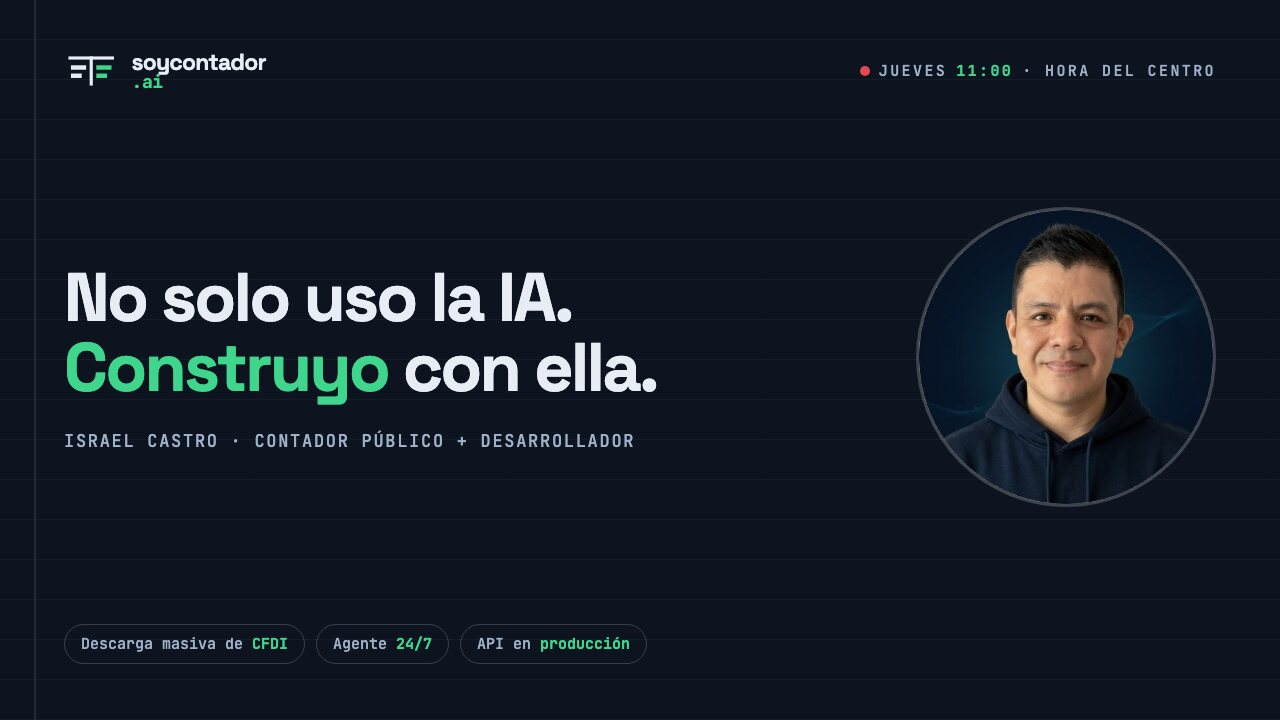
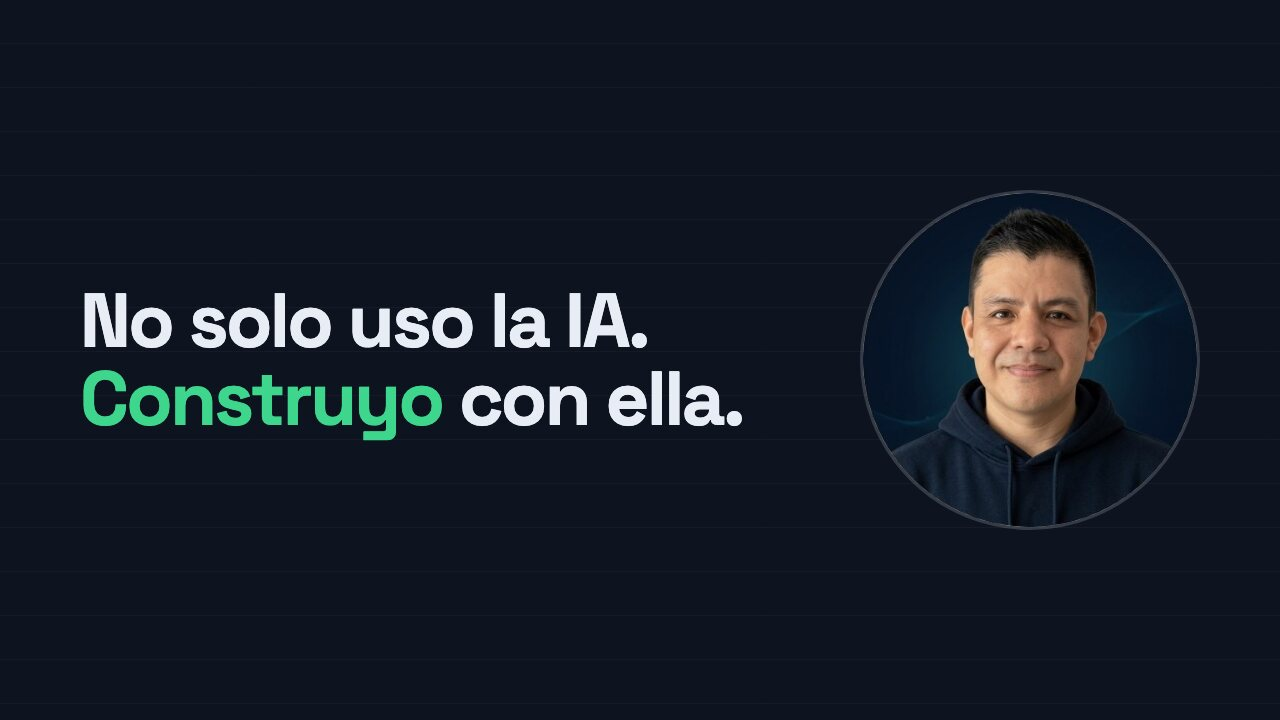
Trailer al hero de /jueves, caratula limpia y guion animado
- caratula sin logo, sin horario y sin tags: solo el gancho y la foto
- el video sube al hero, a la derecha del copy
- el guion del trailer se reescribe como asiento contable: las tres pruebas
  se asientan en cascada al entrar en viewport y suman en un total verde
- el marcador inline pasa de pseudo-elemento a background-image: queda detras
  del texto sin pelear con el apilamiento y admite multilinea

Claude-Session: https://claude.ai/code/session_01PRHpHfLBxTVPshg8H7a7md

diff --git a/design/caratula-jueves.html b/design/caratula-jueves.html
@@ -2,87 +2,31 @@
 <html>
 <head>
 <meta charset="utf-8">
-<link href="https://fonts.googleapis.com/css2?family=Space+Grotesk:wght@500;700&family=JetBrains+Mono:wght@500;700&display=swap" rel="stylesheet">
+<link href="https://fonts.googleapis.com/css2?family=Space+Grotesk:wght@500;700&display=swap" rel="stylesheet">
 <style>
 * { margin: 0; box-sizing: border-box; }
 body {
   width: 1280px; height: 720px; overflow: hidden;
   background: #0D1420;
-  background-image: repeating-linear-gradient(to bottom, transparent 0, transparent 39px, rgba(255,255,255,.035) 39px, rgba(255,255,255,.035) 40px);
+  background-image: repeating-linear-gradient(to bottom, transparent 0, transparent 43px, rgba(255,255,255,.03) 43px, rgba(255,255,255,.03) 44px);
   font-family: "Space Grotesk", sans-serif; color: #E8EDF5;
-  position: relative;
-  display: flex; flex-direction: column; justify-content: space-between;
-  padding: 52px 64px 56px;
+  display: flex; align-items: center; gap: 64px;
+  padding: 0 80px;
 }
-body::before {
-  content: ""; position: absolute; top: 0; bottom: 0; left: 34px;
-  border-left: 2px solid rgba(255,255,255,.09);
+h1 {
+  font-size: 76px; font-weight: 700; letter-spacing: -0.035em; line-height: 1.03;
+  flex: 1;
 }
-.top { display: flex; align-items: center; justify-content: space-between; }
-.marca { display: flex; align-items: center; gap: 13px; }
-.marca svg { height: 38px; width: auto; }
-.wm { display: flex; flex-direction: column; line-height: 0.94; }
-.wm .n { font-size: 23px; font-weight: 700; letter-spacing: -0.035em; color: #E8EDF5; }
-.wm .t { font-family: "JetBrains Mono", monospace; font-size: 18px; font-weight: 700; letter-spacing: -0.02em; color: #3DD68C; }
-.vivo {
-  display: inline-flex; align-items: center; gap: 9px;
-  font-family: "JetBrains Mono", monospace; font-size: 15px; font-weight: 500;
-  letter-spacing: 0.16em; color: #9FB0C9;
-}
-.vivo i { width: 10px; height: 10px; border-radius: 50%; background: #E5484D; }
-.vivo b { color: #3DD68C; font-weight: 700; }
-
-.mid { display: flex; align-items: center; gap: 56px; }
-.texto { flex: 1; }
-h1 { font-size: 68px; font-weight: 700; letter-spacing: -0.035em; line-height: 1.04; }
 h1 .verde { color: #3DD68C; }
-.quien {
-  margin-top: 26px; font-family: "JetBrains Mono", monospace;
-  font-size: 17px; font-weight: 500; letter-spacing: 0.1em; color: #9FB0C9;
-}
 .foto {
-  width: 300px; height: 300px; border-radius: 50%; overflow: hidden;
-  flex: none; border: 3px solid rgba(232,237,245,.22);
+  width: 340px; height: 340px; border-radius: 50%; overflow: hidden;
+  flex: none; border: 3px solid rgba(232,237,245,.18);
 }
 .foto img { width: 100%; height: 100%; object-fit: cover; }
-
-.chips { display: flex; gap: 11px; }
-.chip {
-  font-family: "JetBrains Mono", monospace; font-size: 15px; font-weight: 500;
-  padding: 9px 16px; border: 1px solid rgba(232,237,245,.2);
-  border-radius: 999px; color: #9FB0C9;
-}
-.chip b { color: #3DD68C; font-weight: 700; }
 </style>
 </head>
 <body>
-  <div class="top">
-    <div class="marca">
-      <svg viewBox="5 18 86 60" fill="none">
-        <rect x="12" y="25" width="72" height="5" fill="#E8EDF5"></rect>
-        <rect x="45.5" y="25" width="5" height="46" fill="#E8EDF5"></rect>
-        <rect x="16" y="39" width="24" height="7" fill="#E8EDF5"></rect>
-        <rect x="16" y="52" width="17" height="7" fill="#E8EDF5"></rect>
-        <rect x="56" y="39" width="24" height="7" fill="#3DD68C"></rect>
-        <rect x="56" y="52" width="17" height="7" fill="#3DD68C"></rect>
-      </svg>
-      <span class="wm"><span class="n">soycontador</span><span class="t">.ai</span></span>
-    </div>
-    <span class="vivo"><i></i> JUEVES <b>11:00</b> · HORA DEL CENTRO</span>
-  </div>
-
-  <div class="mid">
-    <div class="texto">
-      <h1>No solo uso la IA.<br><span class="verde">Construyo</span> con ella.</h1>
-      <div class="quien">ISRAEL CASTRO · CONTADOR PÚBLICO + DESARROLLADOR</div>
-    </div>
-    <div class="foto"><img src="/Users/isca/Code/projects/soycontador-ai/public/assets/israel-castro.jpg"></div>
-  </div>
-
-  <div class="chips">
-    <span class="chip">Descarga masiva de <b>CFDI</b></span>
-    <span class="chip">Agente <b>24/7</b></span>
-    <span class="chip">API en <b>producción</b></span>
-  </div>
+  <h1>No solo uso la IA.<br><span class="verde">Construyo</span> con ella.</h1>
+  <div class="foto"><img src="/Users/isca/Code/projects/soycontador-ai/public/assets/israel-castro.jpg"></div>
 </body>
 </html>

diff --git a/src/styles/global.css b/src/styles/global.css
@@ -162,32 +162,31 @@ html.js-reveal [data-reveal].is-visible {
  * en UN renglón (la banda es un rectángulo absoluto), por eso el nowrap.
  */
 .hl {
-  position: relative;
-  display: inline;
-  z-index: 0;
-  white-space: nowrap;
+  /*
+   * El marcador es un background (va detrás del texto por definición, sin
+   * pelear con el apilamiento) que se pinta de izquierda a derecha al entrar
+   * en viewport. `--hl-alto` sube la banda en citas grandes.
+   */
+  background-image: linear-gradient(
+    to top,
+    var(--color-marker) 0,
+    var(--color-marker) var(--hl-alto, 0.42em),
+    transparent var(--hl-alto, 0.42em)
+  );
+  background-repeat: no-repeat;
+  background-size: 0 100%;
+  transition: background-size 0.9s cubic-bezier(0.22, 1, 0.36, 1) 0.4s;
+  box-decoration-break: clone;
+  -webkit-box-decoration-break: clone;
 }
-.hl::after {
-  content: "";
-  position: absolute;
-  left: -0.08em;
-  right: -0.08em;
-  bottom: 0.02em;
-  height: 0.62em;
-  background: var(--color-marker);
-  transform: scaleX(0);
-  transform-origin: left center;
-  z-index: -1;
-  transition: transform 0.9s cubic-bezier(0.22, 1, 0.36, 1) 0.4s;
-}
-.is-visible .hl::after,
-.hl.is-visible::after,
-html:not(.js-reveal) .hl::after {
-  transform: scaleX(1);
+.is-visible .hl,
+.hl.is-visible,
+html:not(.js-reveal) .hl {
+  background-size: 100% 100%;
 }
 @media (prefers-reduced-motion: reduce) {
-  .hl::after {
+  .hl {
     transition: none;
-    transform: scaleX(1);
+    background-size: 100% 100%;
   }
 }
